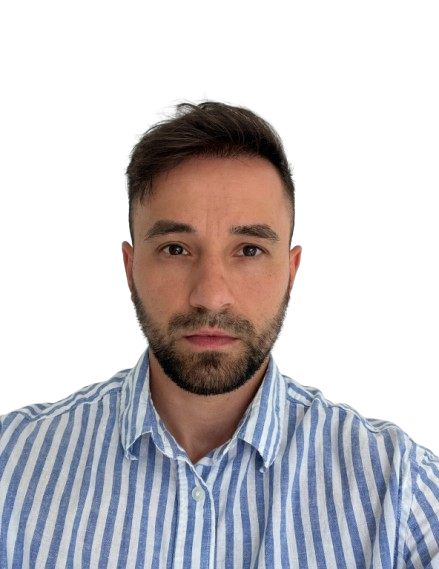
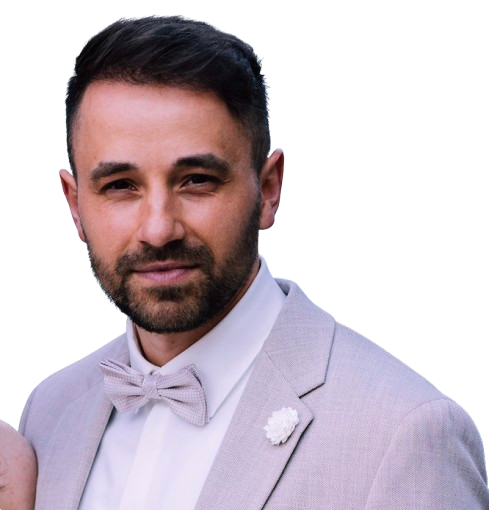
updated profil picture and social-links

diff --git a/index.html b/index.html
@@ -16,7 +16,7 @@
         <header class="l-header">
             <nav class="nav bd-grid">
                 <div>
-                    <a href="#" class="nav__logo">&lt;ilja.codes&gt;</a>
+                    <a href="index.html" class="nav__logo">&lt;ilja.codes&gt;</a>
                 </div>
 
                 <div class="nav__menu" id="nav-menu">
@@ -45,9 +45,9 @@
                 </div>
 
                 <div class="home__social">
-                    <a href="" class="home__social-icon"><i class='bx bxl-linkedin'></i></a>
-                    <a href="" class="home__social-icon"><i class='bx bxl-behance' ></i></a>
-                    <a href="" class="home__social-icon"><i class='bx bxl-github' ></i></a>
+                    <a href="https://de.linkedin.com/in/ilja-savkiv" class="home__social-icon" target="_blank"><i class='bx bxl-linkedin'></i></a>
+                    <!-- <a href="" class="home__social-icon"><i class='bx bxl-behance' ></i></a> -->
+                    <a href="https://github.com/einfachilja" class="home__social-icon" target="_blank"><i class='bx bxl-github' ></i></a>
                 </div>
 
                 <div class="home__img">
@@ -57,7 +57,7 @@
                         </mask>
                         <g mask="url(#mask0)">
                             <path d="M9.19024 145.964C34.0253 76.5814 114.865 54.7299 184.111 29.4823C245.804 6.98884 311.86 -14.9503 370.735 14.143C431.207 44.026 467.948 107.508 477.191 174.311C485.897 237.229 454.931 294.377 416.506 344.954C373.74 401.245 326.068 462.801 255.442 466.189C179.416 469.835 111.552 422.137 65.1576 361.805C17.4835 299.81 -17.1617 219.583 9.19024 145.964Z"/>
-                            <image class="home__blob-img" x="50" y="-10" href="assets/img/perfil.png"/>
+                            <image class="home__blob-img" x="80" y="50" href="assets/img/perfil.png"/>
                         </g>
                     </svg>
                 </div>
@@ -190,11 +190,11 @@
 
         <!--===== FOOTER =====-->
         <footer class="footer">
-            <p class="footer__title"></p>
+            <!-- <p class="footer__title"></p> -->
             <div class="footer__social">
-                <a href="#" class="footer__icon"><i class='bx bxl-facebook' ></i></a>
-                <a href="#" class="footer__icon"><i class='bx bxl-instagram' ></i></a>
-                <a href="#" class="footer__icon"><i class='bx bxl-twitter' ></i></a>
+                <a href="https://www.facebook.com/ilja.savkiv" class="footer__icon" target="_blank"><i class='bx bxl-facebook' ></i></a>
+                <a href="https://www.instagram.com/einfachilja/" class="footer__icon" target="_blank"><i class='bx bxl-instagram' ></i></a>
+                <a href="https://x.com/einfachilja" class="footer__icon" target="_blank"><i class='bx bxl-twitter' ></i></a>
             </div>
             <p class="footer__copy">&#169; &lt;ilja.codes&gt; All rigths reserved</p>
         </footer>

diff --git a/assets/css/styles.css b/assets/css/styles.css
@@ -217,7 +217,7 @@ img {
   fill: var(--first-color);
 }
 .home__blob-img {
-  width: 400px;
+  width: 420px;
 }
 
 /*BUTTONS*/
